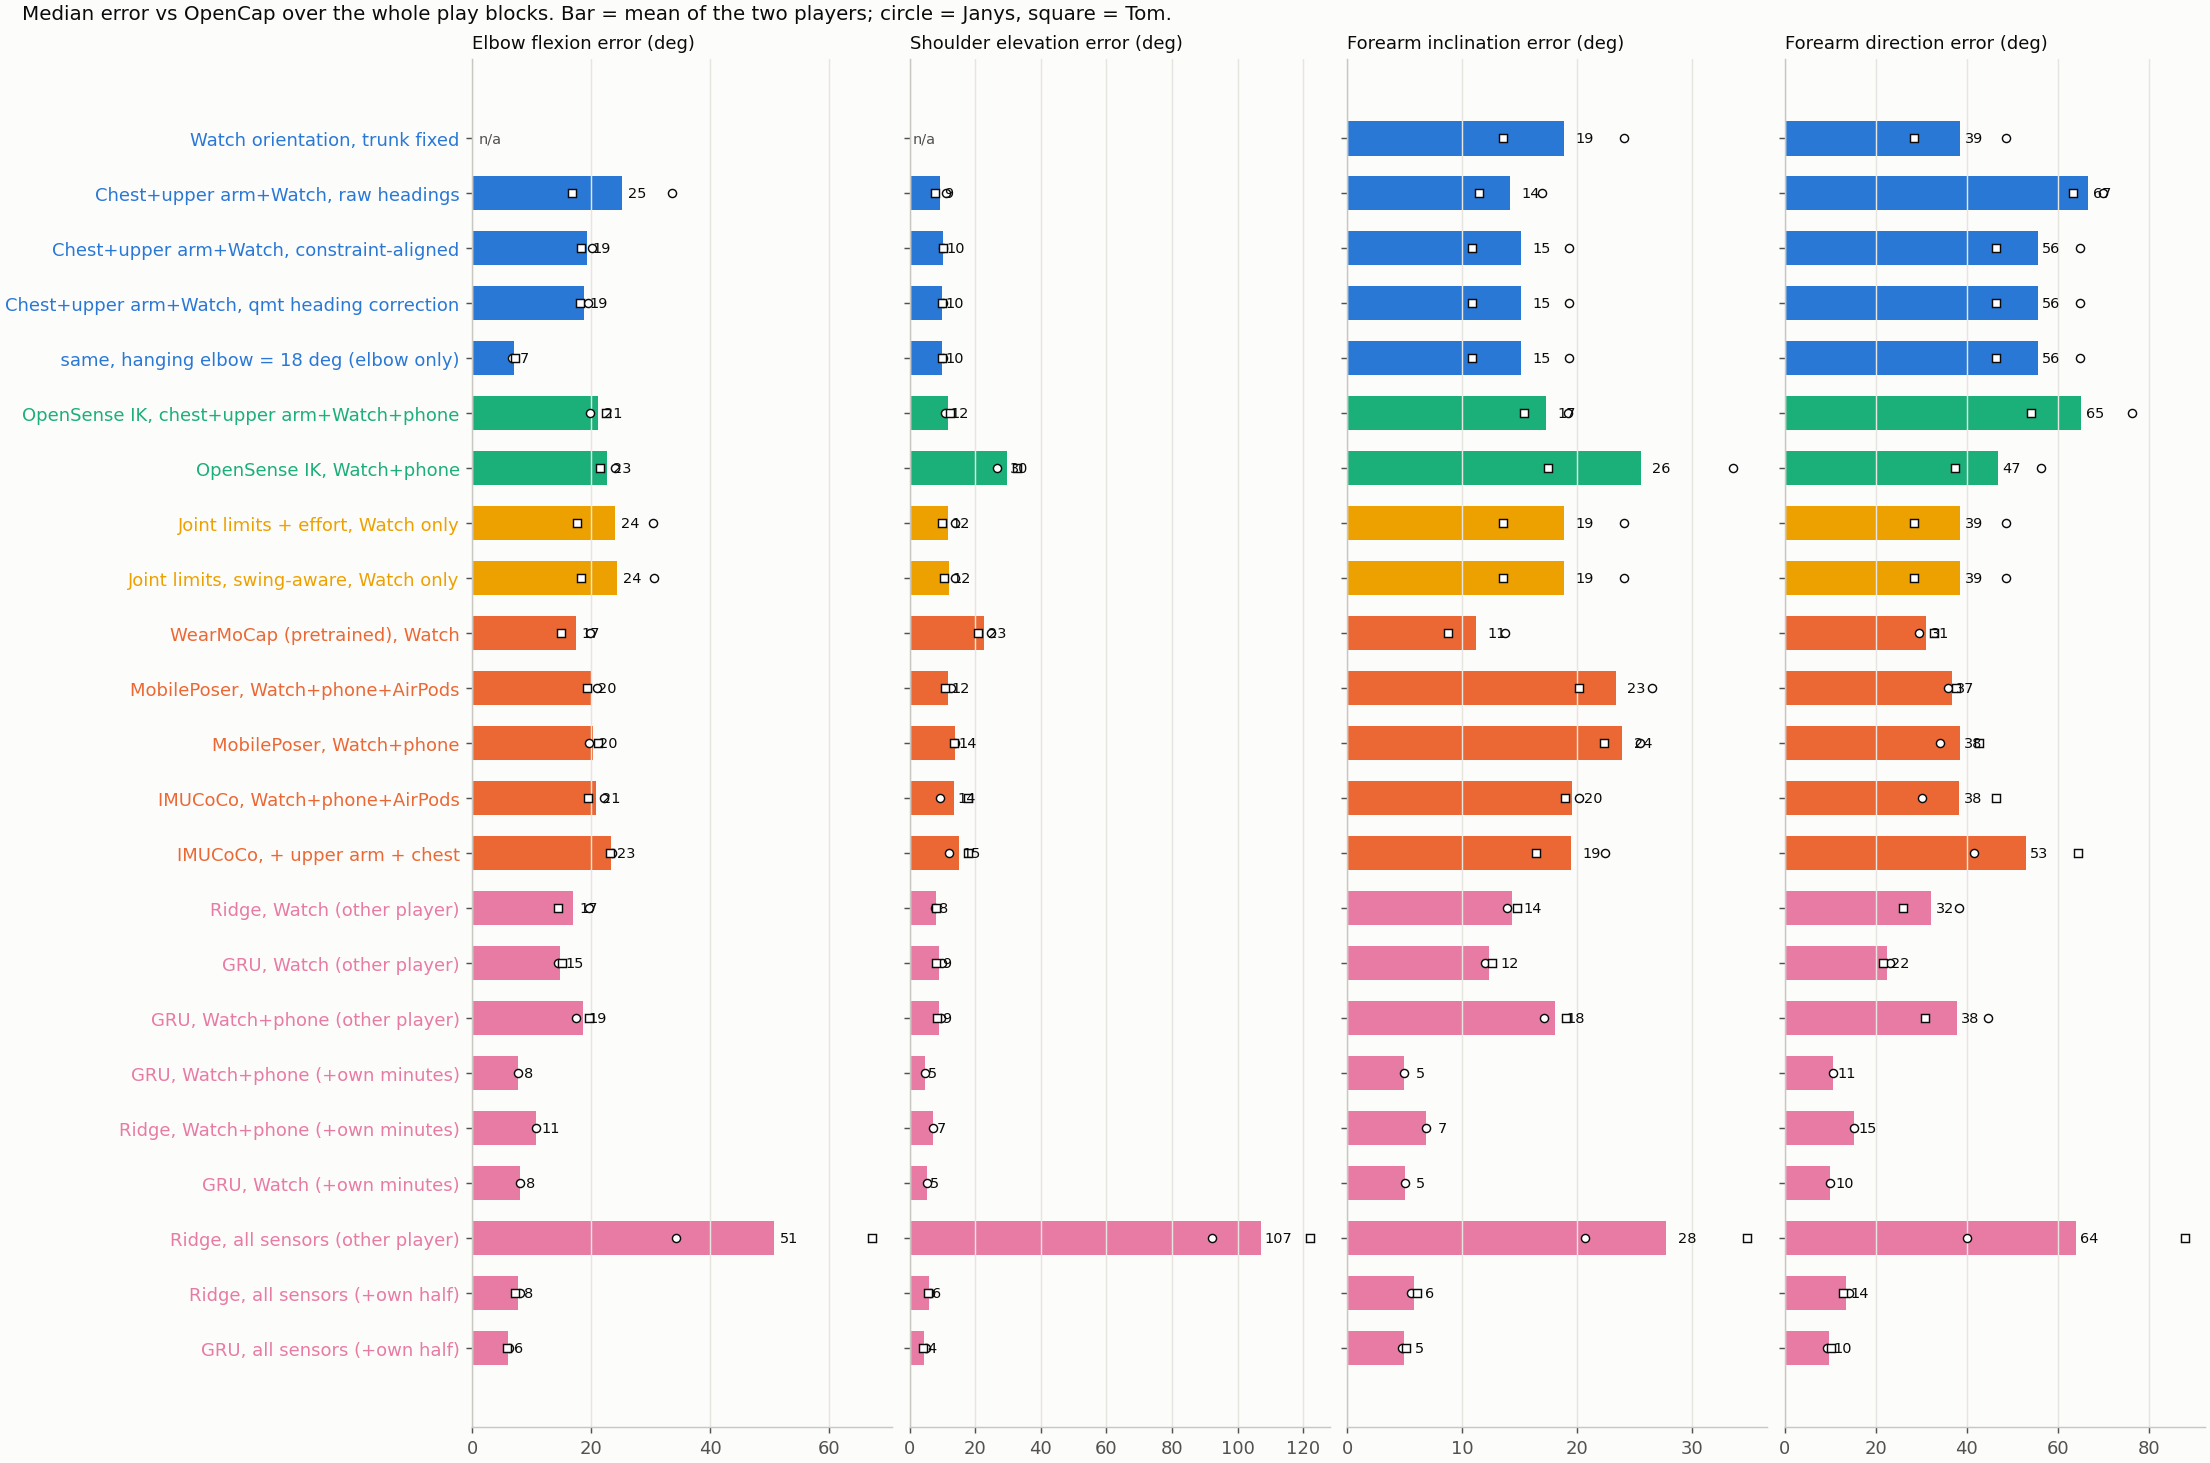
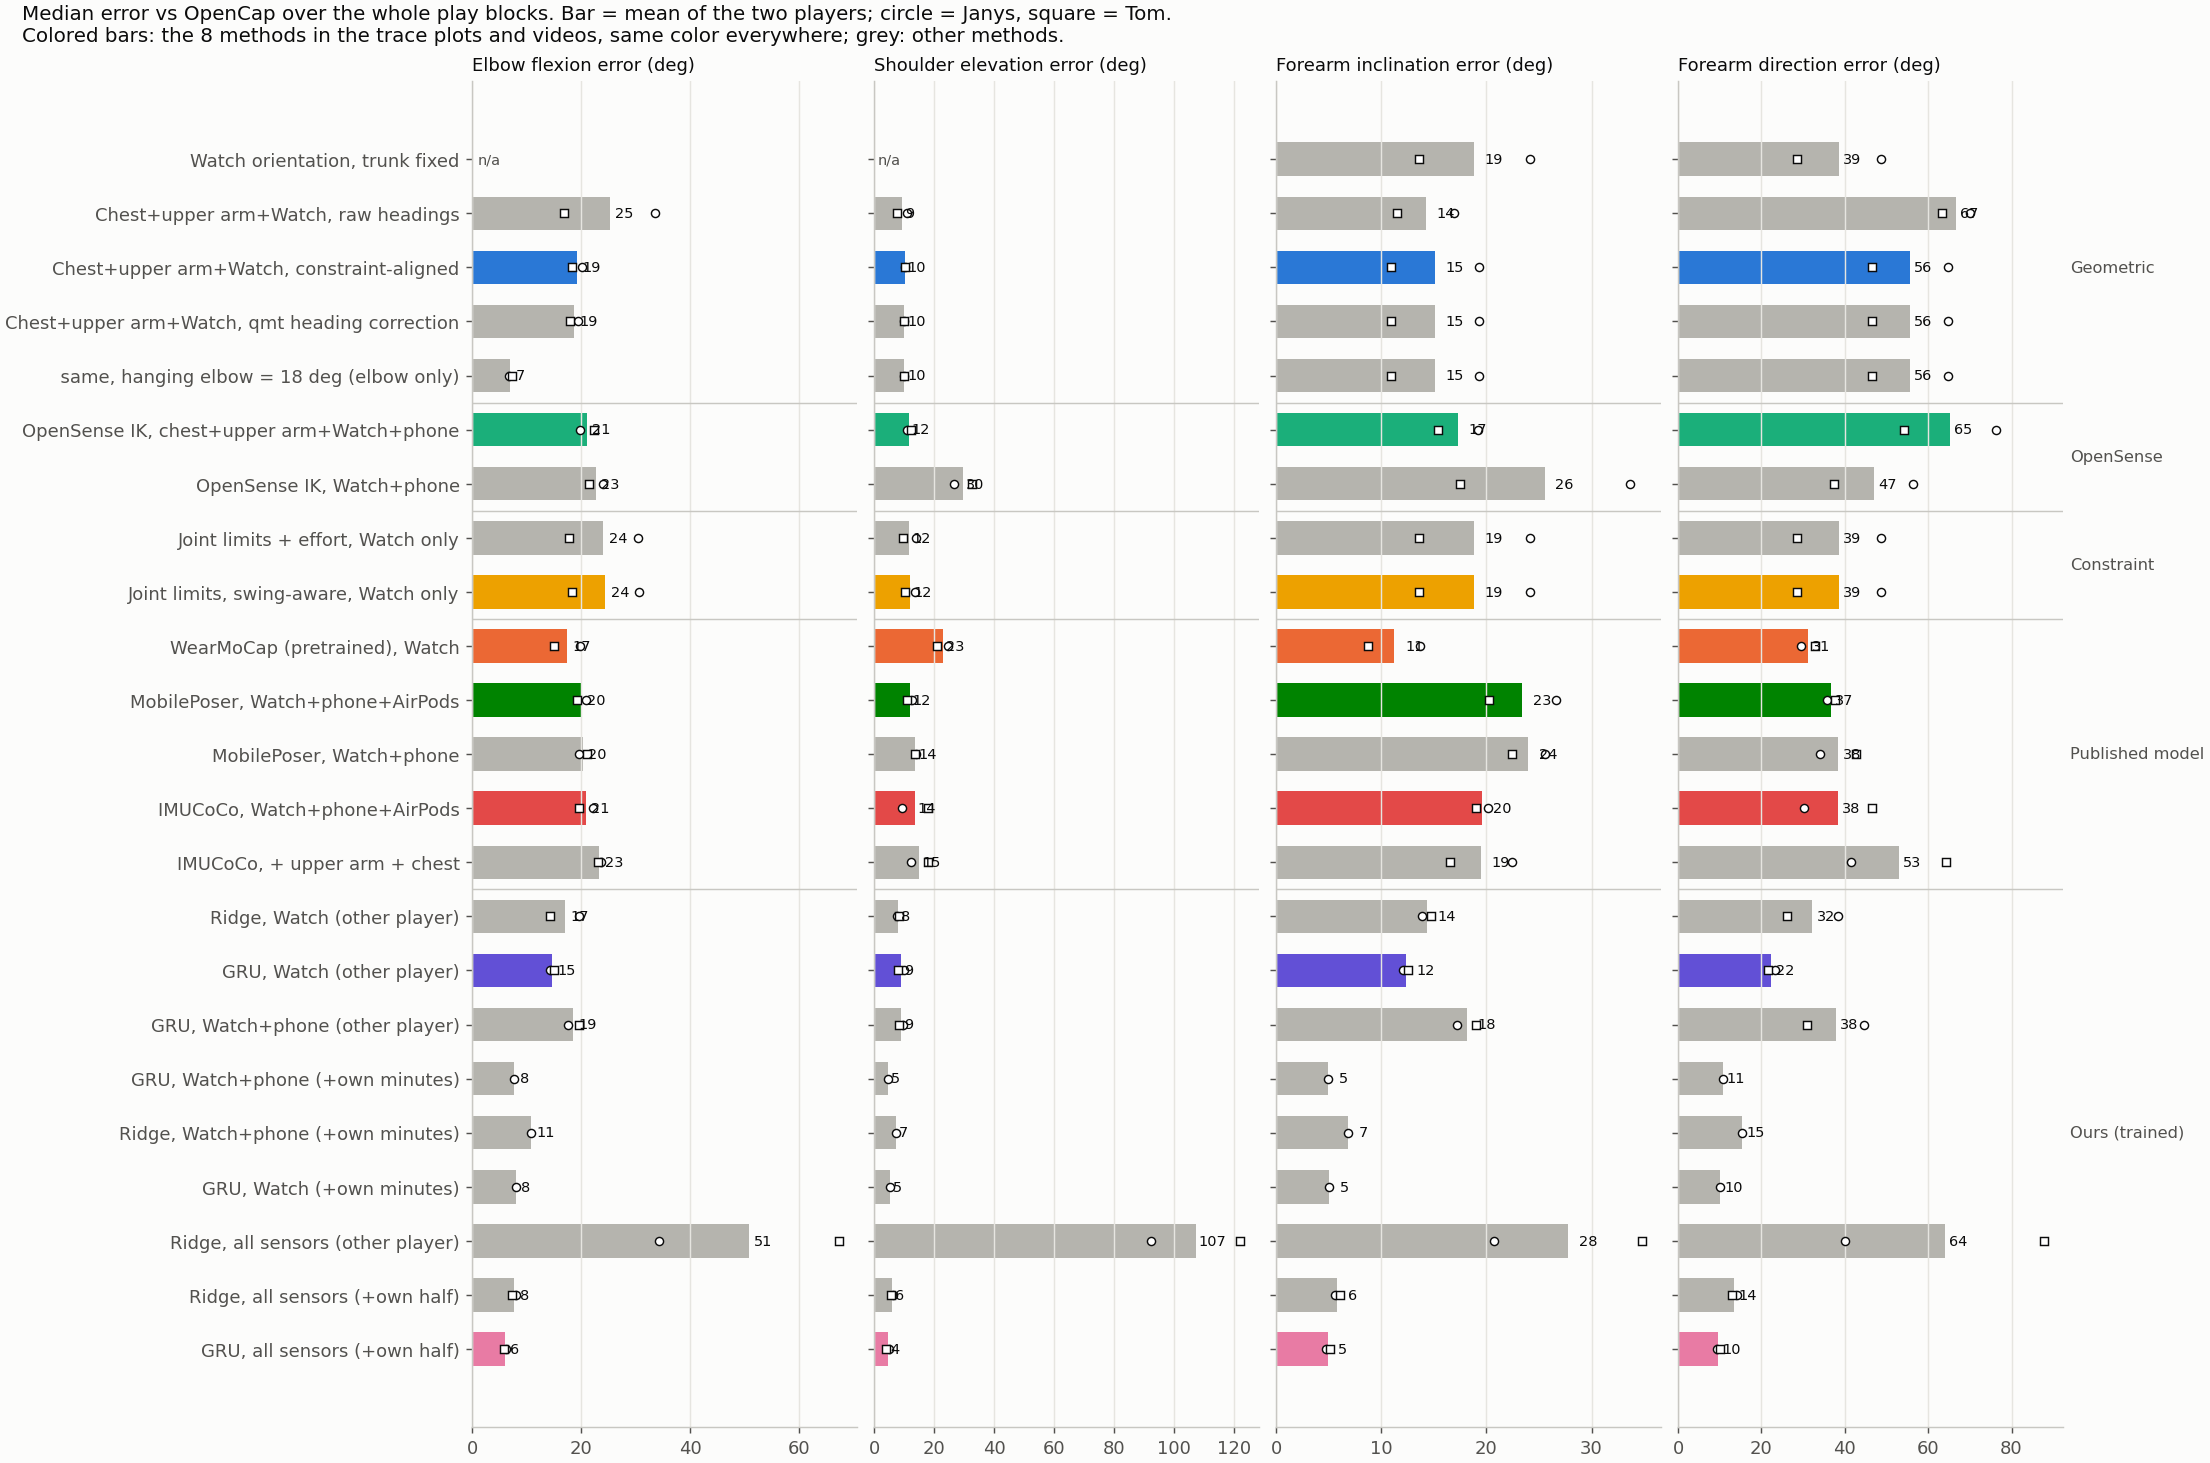
fix(experiments): give each E07 method one color everywhere
Bars were colored by family, while the trace plots and videos
assigned colors by list position, so a method changed color
between figures. colors.py now maps each of the 8 featured methods
to one hue of the validated palette (others grey); the figures, the
box plot and the video panels and curves all read it.

diff --git a/experiments/E07_pose_methods/figures.py b/experiments/E07_pose_methods/figures.py
@@ -8,19 +8,12 @@ from pathlib import Path
 
 import numpy as np
 
+from .colors import FEATURED, TRUTH, color
 from .common import OUT, load, load_method
 from .data import PLAYERS, elevation_plane
 
 FIG = Path(__file__).resolve().parent / "figures"
 INK, INK2, GRID, SURF = "#0b0b0b", "#52514e", "#e6e5e0", "#fcfcfb"
-FAMILY_COLORS = {
-    "Geometric": "#2a78d6",
-    "OpenSense": "#1baf7a",
-    "Constraint": "#eda100",
-    "Published model": "#eb6834",
-    "Ours (trained)": "#e87ba4",
-    "Truth": "#2b2b2b",
-}
 
 # method -> (short label, family); the report's line-up, in display order
 LINEUP = {
@@ -91,8 +84,7 @@ def bars(scores, part):
             if not vals:
                 ax.text(1, yi, "n/a", va="center", color=INK2, fontsize=8)
                 continue
-            col = FAMILY_COLORS[LINEUP[n][1]]
-            ax.barh(yi, np.mean(vals), color=col, height=0.62)
+            ax.barh(yi, np.mean(vals), color=color(n), height=0.62)
             for v, mk in zip(vals, ("o", "s")):
                 ax.plot(v, yi, mk, color="white", ms=4.5, mec=INK, mew=0.8)
             ax.text(
@@ -101,17 +93,26 @@ def bars(scores, part):
         ax.set_title(title, loc="left", fontsize=10, color=INK)
         ax.grid(axis="x", color=GRID)
         ax.set_xlim(0, max(10, ax.get_xlim()[1]))
+        for k in range(1, len(names)):  # thin rule between families
+            if LINEUP[names[k]][1] != LINEUP[names[k - 1]][1]:
+                ax.axhline(y[k] + 0.5, color="#c8c7c2", lw=0.8)
+    fams = [LINEUP[n][1] for n in names]
+    for fam in dict.fromkeys(fams):  # family name beside its group, right of the last panel
+        ys = [yi for yi, f in zip(y, fams) if f == fam]
+        axes[-1].text(
+            1.02, np.mean(ys), fam, transform=axes[-1].get_yaxis_transform(), va="center",
+            fontsize=9, color=INK2,
+        )  # fmt: skip
     axes[0].set_yticks(y)
     axes[0].set_yticklabels([LINEUP[n][0] for n in names])
-    for lab, n in zip(axes[0].get_yticklabels(), names):
-        lab.set_color(FAMILY_COLORS[LINEUP[n][1]])
     what = (
         "during swings (±0.5 s around each Watch-detected swing)"
         if part == "swing"
         else "over the whole play blocks"
     )
     fig.suptitle(
-        f"Median error vs OpenCap {what}. Bar = mean of the two players; circle = Janys, square = Tom.",
+        f"Median error vs OpenCap {what}. Bar = mean of the two players; circle = Janys, square = Tom.\n"
+        "Colored bars: the 8 methods in the trace plots and videos, same color everywhere; grey: other methods.",
         x=0.01,
         ha="left",
         color=INK,
@@ -130,7 +131,6 @@ def traces(player, names, around, width=3.0):
 
     style(plt)
     d = load(player)
-    cols = ["#2a78d6", "#eb6834", "#1baf7a", "#eda100", "#e87ba4", "#008300"]
     fig, ax = plt.subplots(
         2, len(around), figsize=(4.2 * len(around), 6), sharey="row", constrained_layout=True
     )
@@ -139,17 +139,15 @@ def traces(player, names, around, width=3.0):
         x = d["t"][m] - s
         gt_ok = d["gt_valid"][m]
         ax[0, c].plot(
-            x, np.where(gt_ok, d["gt_elbow"][m], np.nan), color=INK, lw=2.4, label="OpenCap"
+            x, np.where(gt_ok, d["gt_elbow"][m], np.nan), color=TRUTH, lw=2.6, label="OpenCap"
         )
-        ax[1, c].plot(x, np.where(gt_ok, d["gt_elev"][m], np.nan), color=INK, lw=2.4)
-        for k, n in enumerate(names):
+        ax[1, c].plot(x, np.where(gt_ok, d["gt_elev"][m], np.nan), color=TRUTH, lw=2.6)
+        for n in names:
             mm = load_method(player, n)
-            ax[0, c].plot(
-                x, mm["elbow"][m], color=cols[k % len(cols)], lw=1.5, label=LINEUP.get(n, (n,))[0]
-            )
+            ax[0, c].plot(x, mm["elbow"][m], color=color(n), lw=1.4, label=LINEUP.get(n, (n,))[0])
             if np.isfinite(mm["hum"][m]).any():
                 ev, _ = elevation_plane(mm["hum"][m])
-                ax[1, c].plot(x, ev, color=cols[k % len(cols)], lw=1.5)
+                ax[1, c].plot(x, ev, color=color(n), lw=1.4)
         for r in range(2):
             ax[r, c].axvline(0, color=GRID, lw=1)
             ax[r, c].grid(axis="y", color=GRID)
@@ -164,10 +162,10 @@ def traces(player, names, around, width=3.0):
         h,
         lab,
         loc="lower center",
-        ncol=min(4, len(lab)),
+        ncol=min(3, len(lab)),
         frameon=False,
         fontsize=9,
-        bbox_to_anchor=(0.5, -0.07),
+        bbox_to_anchor=(0.5, -0.13),
     )
     fig.savefig(FIG / f"traces_{player}.png", dpi=130, bbox_inches="tight")
     plt.close(fig)
@@ -198,10 +196,13 @@ def per_swing(names):
             data.append(errs)
             labels.append(LINEUP.get(n, (n,))[0])
     fig, ax = plt.subplots(figsize=(11, 0.45 * len(data) + 1.4), constrained_layout=True)
-    bp = ax.boxplot(data[::-1], vert=False, widths=0.55, patch_artist=True, showfliers=False)
+    bp = ax.boxplot(
+        data[::-1], vert=False, widths=0.55, patch_artist=True, showfliers=False,
+        medianprops=dict(color=INK, lw=1.6),
+    )  # fmt: skip
     for patch, n in zip(bp["boxes"], [n for n in names][::-1][: len(data)]):
-        patch.set_facecolor(FAMILY_COLORS[LINEUP.get(n, ("", "Geometric"))[1]])
-        patch.set_alpha(0.75)
+        patch.set_facecolor(color(n))
+        patch.set_edgecolor(INK2)
     ax.set_yticklabels(labels[::-1])
     ax.set_xlabel("elbow error at the swing peak (deg, one value per swing)")
     ax.grid(axis="x", color=GRID)
@@ -218,23 +219,13 @@ def main():
     for part in ("swing", "all"):
         bars(scores, part)
     best = [
-        n
-        for n in (
-            "aligned_trunk_upper_watch",
-            "opensense_trunk_upper_watch_phone",
-            "constraint_watch_static_trunk",
-            "wearmocap_watch",
-            "mobileposer_rw_rp_h",
-            "imucoco_rw_rp_h_upperarm_chest",
-            "own_gru_watch_phone_xplayer",
-        )
-        if all((OUT / p / f"method_{n}.npz").exists() for p in PLAYERS)
-    ]
+        n for n in FEATURED if all((OUT / p / f"method_{n}.npz").exists() for p in PLAYERS)
+    ]  # the same 8 methods as the videos, in their own colors
     for p in PLAYERS:
         d = load(p)
         sw = [s for s in d["swing_t"] if d["gt_valid"][np.abs(d["t"] - s) < 1.0].mean() > 0.9]
         pick = [sw[int(i)] for i in np.linspace(0, len(sw) - 1, min(3, len(sw)))]
-        traces(p, best[:6], pick)
+        traces(p, best, pick)
     per_swing([n for n in LINEUP if all((OUT / p / f"method_{n}.npz").exists() for p in PLAYERS)])
     write_summary()
     print("figures in", FIG)

diff --git a/experiments/E07_pose_methods/video.py b/experiments/E07_pose_methods/video.py
@@ -2,7 +2,7 @@
 a grey ghost in each), and rolling curves under them: the Watch's 200 Hz rotation speed, elbow
 angle and shoulder elevation per method with OpenCap in black.
 
-    .venv/bin/python -m experiments.E07_pose_methods.video PLAYER --methods a,b,c [--start S --seconds N]
+    .venv/bin/python -m experiments.E07_pose_methods.video PLAYER [--methods a,b,c] [--start S --seconds N]
 
 Writes results/<player>/videos/compare_<start>.mp4 (not committed).
 """
@@ -14,6 +14,7 @@ from pathlib import Path
 import cv2
 import numpy as np
 
+from .colors import FEATURED, bgr
 from .common import OUT, angle_between, load, load_method
 from .data import PLAYERS, elevation_plane
 
@@ -21,17 +22,7 @@ FPS = 30
 PANEL_W, PANEL_H, CAM_W = 300, 300, 640
 CHART_H, HEADER, FOOT = 120, 70, 40
 INK, GREY, LIGHT, BG = (40, 40, 40), (150, 150, 150), (225, 225, 225), (250, 250, 250)
-GT_COLOR = (30, 30, 30)
-COLORS = [
-    (214, 120, 42),
-    (52, 104, 235),
-    (122, 175, 27),
-    (0, 161, 237),
-    (164, 123, 232),
-    (0, 131, 0),
-    (129, 129, 217),
-    (180, 130, 60),
-]  # BGR, fixed order
+GT_COLOR = bgr("#0b0b0b")  # OpenCap; methods use colors.bgr(name)
 UPPER_M, FORE_M = 0.30, 0.27
 SHOULDER = np.array([0.0, 0.0, 0.18])  # right shoulder in the trunk frame (x fwd, y up, z right), m
 
@@ -161,7 +152,7 @@ def main():
 
     p = argparse.ArgumentParser()
     p.add_argument("player", choices=list(PLAYERS))
-    p.add_argument("--methods", required=True)
+    p.add_argument("--methods", default=",".join(FEATURED))
     p.add_argument("--start", type=float, default=0.0, help="seconds into the block")
     p.add_argument("--seconds", type=float)
     p.add_argument("--clip", help="phone1 clip (960x540 copy)")
@@ -258,7 +249,7 @@ def main():
             r, c = divmod(k, ncol)
             pan = arm_panel(
                 n,
-                COLORS[k % len(COLORS)],
+                bgr(n),
                 m["hum"][i],
                 m["fore"][i],
                 d["gt_hum"][i] if gt_ok[i] else np.full(3, np.nan),
@@ -283,7 +274,7 @@ def main():
                     np.interp(t, hf_t[sel_hf], hf_w[sel_hf], left=np.nan, right=np.nan)
                     if sel_hf.sum() > 2
                     else np.full(len(t), np.nan),
-                    (60, 60, 200),
+                    (90, 90, 90),  # sensor signal: neutral, not a method color
                     1,
                 )
             ],
@@ -298,8 +289,7 @@ def main():
             cy + CHART_H,
             W,
             "Elbow flexion",
-            [(gmask(gel), GT_COLOR, 3)]
-            + [(c[0], COLORS[k % len(COLORS)], 1) for k, c in enumerate(curves)],
+            [(gmask(gel), GT_COLOR, 3)] + [(c[0], bgr(n), 1) for n, c in zip(names, curves)],
             t,
             now,
             160,
@@ -311,8 +301,7 @@ def main():
             cy + 2 * CHART_H,
             W,
             "Shoulder elevation",
-            [(gmask(gev), GT_COLOR, 3)]
-            + [(c[1], COLORS[k % len(COLORS)], 1) for k, c in enumerate(curves)],
+            [(gmask(gev), GT_COLOR, 3)] + [(c[1], bgr(n), 1) for n, c in zip(names, curves)],
             t,
             now,
             160,

diff --git a/experiments/E07_pose_methods/colors.py b/experiments/E07_pose_methods/colors.py
@@ -1,0 +1,33 @@
+"""One color per method, shared by every E07 figure, video and the report.
+
+The eight methods shown in the trace plots and videos each own one hue of the validated
+categorical palette, in fixed order; every other method is grey. Color follows the method, never
+its position in a list, so a method looks the same in the bars, the traces, the box plot and the
+video panels.
+"""
+
+TRUTH = "#0b0b0b"  # OpenCap
+OTHER = "#b5b4ae"  # methods not featured in the traces and videos
+
+FEATURED = {
+    "aligned_trunk_upper_watch": "#2a78d6",  # blue
+    "wearmocap_watch": "#eb6834",  # orange
+    "opensense_trunk_upper_watch_phone": "#1baf7a",  # aqua
+    "constraint_watch_swing": "#eda100",  # yellow
+    "own_gru_allsensors_personal": "#e87ba4",  # magenta
+    "mobileposer_rw_rp_h": "#008300",  # green
+    "own_gru_watch_xplayer": "#6250d6",  # violet
+    "imucoco_rw_rp_h": "#e34948",  # red
+}
+
+
+def color(name):
+    """Hex color of a method."""
+    return FEATURED.get(name, OTHER)
+
+
+def bgr(name_or_hex):
+    """OpenCV BGR tuple of a method (or of a hex string)."""
+    h = name_or_hex if name_or_hex.startswith("#") else color(name_or_hex)
+    r, g, b = (int(h[i : i + 2], 16) for i in (1, 3, 5))
+    return (b, g, r)

diff --git a/experiments/README.md b/experiments/README.md
@@ -53,6 +53,7 @@ experiments/
     ├── align.py, geometric.py, qmt_heading.py, constraint.py, opensense*.py   model-free methods
     ├── wearmocap.py, learned_published.py, learned_own.py                    learned methods
     ├── evaluate.py, figures.py, video.py                                     scores, report figures, videos
+    ├── colors.py                     one color per method, shared by figures, videos and the report
     └── figures/                      report PNGs (results/ holds data, not committed)
 ```
 
